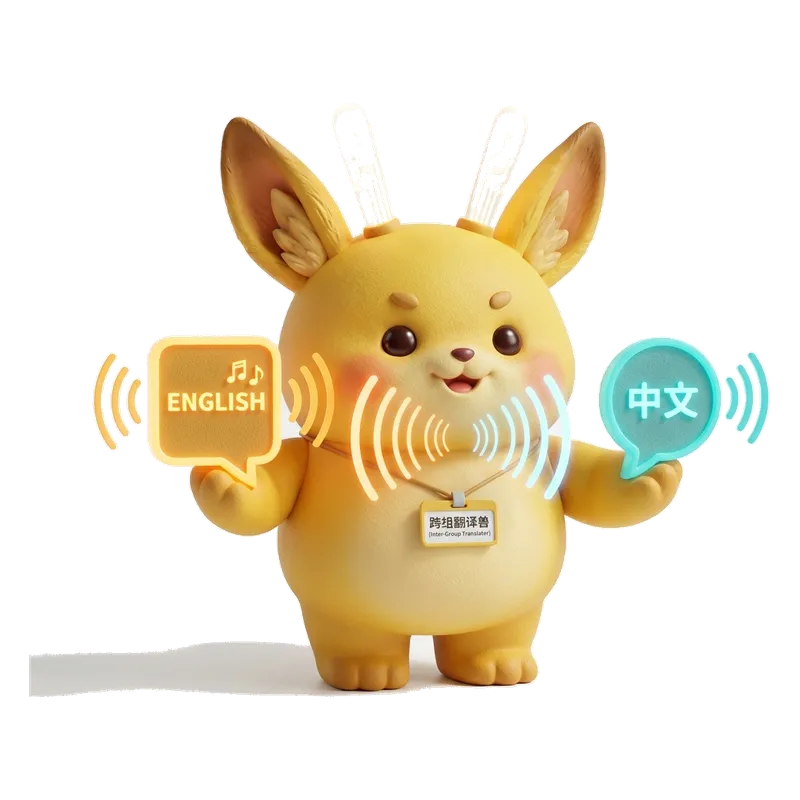
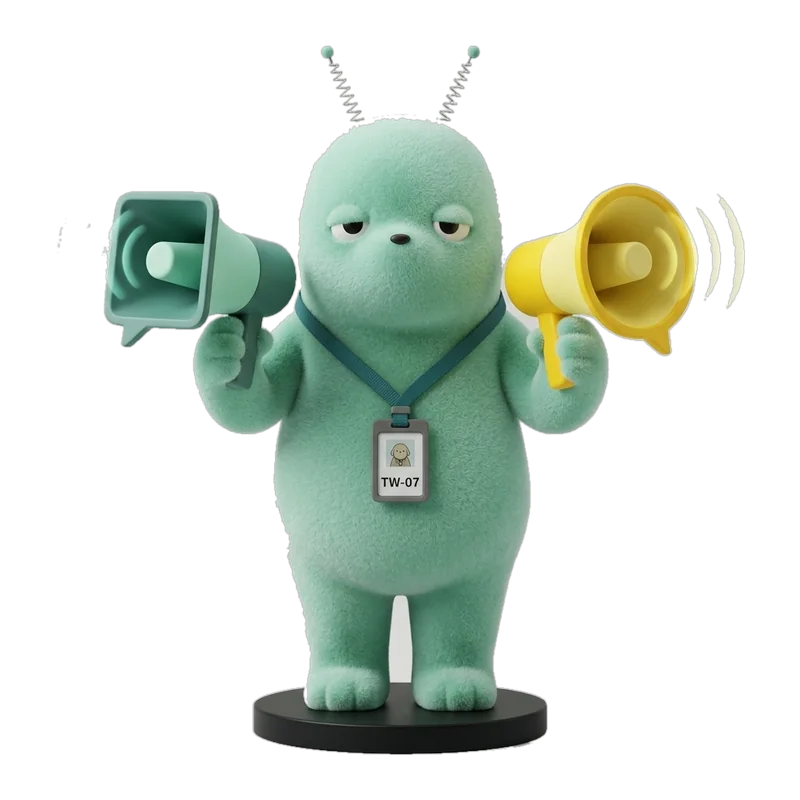
feat(visual): 12+1 全量工牌绒绒正式资产替换——打破纯重命名、实心防穿孔与设计文档同步

diff --git a/docs/DESIGN_SYSTEM_B_POSTER.md b/docs/DESIGN_SYSTEM_B_POSTER.md
@@ -101,22 +101,31 @@
    - 原口径：“出事之前没人看见你，出事之后所有人都找你”（存在背锅负面心理暗示）；
    - **终审定稿口径**：**“拦截隐患于发生之前，把关质量于交付之初。”**（强调质量守门人的主动把关权力与稳固价值）。
 
-### 5.2 13 只角色完整设定矩阵表
-| 编号 | 正式名称 | 英文代号 | 一句话定义句 (打磨定稿) | 标志性道具与轮廓特征 | 专属辅助色 | 素材文件名 (WebP ≤150KB) |
+### 5.2 13 只角色完整设定矩阵表 (A1/A2 工牌绒绒家族正式定稿)
+| 编号 | 正式名称 | 英文代号 | 一句话定义句 (打磨定稿) | 标志性道具与体型骨架 (6:6平衡) | 专属辅助色 | 素材文件名 (800×800 WebP ≤150KB) |
 | :--- | :--- | :--- | :--- | :--- | :--- | :--- |
-| **01** | **搬表工** | `TABLE_WORKER · TW-01` | 你把数据从 A 搬到 B，顺便当格式转换器。 | 双手吃力环抱立体发光多维表格框，头戴数据流目镜 | 荧光黄绿 | `01_table_worker.webp` (118.09 KB) |
-| **02** | **巡检工** | `INSPECTOR_WORKER · TW-02` | 按清单跑流程，链接、字段、库存，一个都不能错。 | 手持长柄超大工业放大镜正在扫描，胸前垂挂打勾长清单纸带，头顶旋转警报灯 | 警示亮橙 | `02_inspector_worker.webp` (72.64 KB) |
-| **03** | **校稿工** | `PROOFREADER_WORKER · TW-03` | 同一句话要说给不同的人听，你保证它每次都说得对。 | 双层复古老花镜，右手斜扛比身体还长的巨型红蓝校对铅笔，左手拿贴满标签的便签本 | 荧光玫红 | `03_proofreader_worker.webp` (69.09 KB) |
-| **04** | **拼装工** | `ASSEMBLY_WORKER · TW-04` | 素材从四面八方来，成品从你手里出去。 | 背后伸出双机械夹爪臂，双手正把彩色卡榫发光积木组装进多维方盒 | 工业明黄 | `04_assembly_worker.webp` (60.00 KB) |
-| **05** | **追因工** | `ROOTCAUSE_WORKER · TW-05` | 报表异常只是表象，顺着链路定位根因的是你。 | 垂耳侦探猎犬造型，俯身持折线波形探针雷达仪，地面探测数据链路痕迹 | 探查钴蓝 | `05_rootcause_worker.webp` (92.25 KB) |
-| **06** | **守门工** | `GATEKEEPER_WORKER · TW-06` | 拦截隐患于发生之前，把关质量于交付之初。 | 敦实重装战术防爆背心，双手插地立着一面巨大半透明黑金 GATE 防爆闸门盾牌 | 防护深钛 | `06_gatekeeper_worker.webp` (59.97 KB) |
-| **07** | **翻译工** | `TRANSLATOR_WORKER · TW-07` | 两边都说中文，但只有你能对上话。 | 头顶一对高敏接收长天线，左右手各举一个方形与圆形双色对话气泡喇叭，发出对齐声波 | 荧光青绿 | `07_translator_worker.webp` (73.29 KB) |
-| **08** | **拆解工** | `DECONSTRUCTOR_WORKER · TW-08` | 别人给想法，你给可执行的清单。 | 蓝色工装背带裤，双手持发光大裁纸剪刀，面前整齐码放切分好的 1-2-3 清单积木方块 | 警戒橙黄 | `08_deconstructor_worker.webp` (116.63 KB) |
-| **09** | **催办工** | `PROGRESS_WORKER · TW-09` | 所有人的延期，都会先出现在你的表格里。 | 头顶大号复古响铃闹钟，右手握带电火花的大秒表，大步向前冲刺飞奔 | 疾速火红 | `09_progress_worker.webp` (68.01 KB) |
-| **10** | **排雷工** | `MINESWEEPER_WORKER · TW-10` | 项目炸之前，只有你天天问“万一呢”。 | 金属防爆工程钢盔+防爆风镜，双手握长柄探雷盘贴地探测，脚边卧着贴 SAFE 标贴的小地雷 | 战术橄榄 | `10_minesweeper_worker.webp` (69.95 KB) |
-| **11** | **解题工** | `SOLVER_WORKER · TW-11` | 客户的问题没有标准答案，你现场拼一个。 | 双手高高托举空中正在解体变形重组的多维发光复杂魔方，周围悬浮几何符号微粒 | 极客幻紫 | `11_solver_worker.webp` (97.20 KB) |
-| **12** | **应变工** | `ONSCENE_WORKER · TW-12` | 消息传到你这儿已经晚了十分钟，好在你人就在那儿。 | 耳戴通讯耳麦，腰系应急抢修包，双手持应急灭火喷枪与对讲机，急刹车漂移入场姿势 | 应急亮橙 | `12_onscene_worker.webp` (51.91 KB) |
-| **00** | **神秘工 · 待解锁** | `SHADOW_WORKER · TW-00` | 证据不够，不下结论。 | 同款身形深黑磨砂质感剪影，周身数码虚线，头顶悬浮发光黄色问号（？），胸前未解锁挂锁 | 虚线深灰 | `00_shadow_worker.webp` (84.98 KB) |
+| **01** | **搬表工** | `TABLE_WORKER · TW-01` | 你把数据从 A 搬到 B，顺便当格式转换器。 | 【稳态·水桶型】手捧立体发光绿色 Excel 键帽 / 数据表格板，胸前挂 TW-01 白底工牌 | 薄荷绿 (#22C55E) | `01_table_worker.webp` (34.1 KB) |
+| **02** | **巡检工** | `INSPECTOR_WORKER · TW-02` | 按清单跑流程，链接、字段、库存，一个都不能错。 | 【稳态·方墩型】手持超大高亮工业放大镜，胸前长清单纸带，头顶旋转警报小灯，挂 TW-02 工牌 | 扫描青蓝 (#0EA5E9) | `02_inspector_worker.webp` (34.1 KB) |
+| **03** | **校稿工** | `PROOFREADER_WORKER · TW-03` | 同一句话要说给不同的人听，你保证它每次都说得对。 | 【稳态·敦厚型】复古老花镜，斜扛巨型红色删除号铅笔与贴标卷纸，挂 TW-03 工牌 | 校对橙红 (#EA580C) | `03_proofreader_worker.webp` (42.2 KB) |
+| **04** | **拼装工** | `ASSEMBLY_WORKER · TW-04` | 素材从四面八方来，成品从你手里出去。 | 【稳态·宽肩型】双手握模块化螺丝刀组，抱持发光蓝色积木卡榫方盒，挂 TW-04 工牌 | 工业浅蓝 (#38BDF8) | `04_assembly_worker.webp` (40.3 KB) |
+| **05** | **追因工** | `ROOTCAUSE_WORKER · TW-05` | 报表异常只是表象，顺着链路定位根因的是你。 | 【稳态·微趴型】身体压低前倾，手持强光探照手电筒与折线探针，挂 TW-05 工牌 | 探索深紫 (#8B5CF6) | `05_rootcause_worker.webp` (35.5 KB) |
+| **06** | **守门工** | `GATEKEEPER_WORKER · TW-06` | 拦截隐患于发生之前，把关质量于交付之初。 | 【稳态·厚盾型】双手立着一面巨大半透明防爆闸门盾牌与重型金属铜锁，挂 TW-06 工牌 | 金属铜黄 (#F59E0B) | `06_gatekeeper_worker.webp` (40.0 KB) |
+| **07** | **翻译工** | `TRANSLATOR_WORKER · TW-07` | 两边都说中文，但只有你能对上话。 | 【动态·灵巧型】头顶高敏接收双天线，手持双向翻转字典与双色对话对齐喇叭，挂 TW-07 工牌 | 双向暖金 (#F59E0B) | `07_translator_worker.webp` (44.5 KB) |
+| **08** | **拆解工** | `DECONSTRUCTOR_WORKER · TW-08` | 别人给想法，你给可执行的清单。 | 【动态·修长爪】双手持发光大裁纸剪刀与锯齿标尺，整齐码放清单积木，挂 TW-08 工牌 | 警戒橙黄 (#EAB308) | `08_deconstructor_worker.webp` (39.0 KB) |
+| **09** | **催办工** | `PROGRESS_WORKER · TW-09` | 所有人的延期，都会先出现在你的表格里。 | 【动态·大步奔跑】胸前挂大号倒计时秒表与催办进度条，大步向前冲刺飞奔，挂 TW-09 工牌 | 紧急亮黄 (#EAB308) | `09_progress_worker.webp` (59.0 KB) |
+| **10** | **排雷工** | `MINESWEEPER_WORKER · TW-10` | 项目炸之前，只有你天天问“万一呢”。 | 【稳态·谨慎蹲踞】双手握长柄金属排雷探针，脚边插黄色警示三角旗，挂 TW-10 工牌 | 警示醒目黄 (#FACC15) | `10_minesweeper_worker.webp` (85.0 KB) |
+| **11** | **解题工** | `SOLVER_WORKER · TW-11` | 客户的问题没有标准答案，你现场拼一个。 | 【动态·探头修长】双手托举悬浮立体变形魔方球，周围环绕几何微粒，挂 TW-11 工牌 | 数学薄荷蓝 (#2DD4BF) | `11_solver_worker.webp` (101.8 KB) |
+| **12** | **应变工** | `ONSCENE_WORKER · TW-12` | 消息传到你这儿已经晚了十分钟，好在你人就在那儿。 | 【动态·前倾起跑】背负珊瑚红色多功能应急工具箱与对讲机天线，随时待命，挂 TW-12 工牌 | 急救珊瑚红 (#FB7185) | `12_onscene_worker.webp` (109.0 KB) |
+| **00** | **神秘工 · 待解锁** | `SHADOW_WORKER · TW-00` | 证据不够，不下结论。 | 【未知态·半透明轮廓】暗哑炭黑短植绒质感，周身悬浮发光虚线环，挂醒目 TW-00 金色问号(?)工牌 | 发光亮黄 (#FDE047) | `00_shadow_worker.webp` (54.1 KB) |
+
+### 5.3 全量 12+1 角色中文提示词规范与生图档案
+- **底座风格与家族统领词 (通用前缀)**：
+  `工牌绒绒家族角色，TW-XX[角色名]。摄影棚单色浅灰背景，正视全身像，潮玩手办雕像，精致短植绒毛材质。身体为中性冷灰色细密植绒，腹部米白。胸前挂带挂着写有TW-XX的白色小工牌。黑色哑光小圆豆眼，微露克制疲惫打工神态。手持[标志性道具]，辅助色为[专属辅助色]。没有大眼腮红，成年克制打工情绪，比例协调，纯净单色背景。`
+- **体型骨架 6:6 平衡控制**：
+  - **稳态 6 角色 (60%)**：TW-01(水桶墩)、TW-02(方块方墩)、TW-03(敦厚正圆)、TW-04(宽肩扎实)、TW-05(微趴低重心)、TW-06(厚盾圆柱)、TW-10(蹲踞扎稳)；
+  - **动态 6 角色 (40%)**：TW-07(双天线前倾)、TW-08(修长爪步态)、TW-09(冲刺大步奔跑)、TW-11(修长探头托举)、TW-12(前倾应急起跑)；
+  - **未知态 1 角色**：TW-00(暗黑炭灰绒毛剪影轮廓 + 发光亮黄问号工牌)。
+- **原创避让**：全量角色不复刻任何既有商业 IP (Molly/Labubu/SKULLPANDA/BE@RBRICK)，以打工人真实职场疲态与极简几何绒毛为主体。
 
 ---
 
@@ -141,12 +150,12 @@
 
 ## 七、素材技术参数与实心抠图规范
 
-- **格式标准**：WebP 格式（带 Alpha 透明通道），质量参数 q80，无损高保真；
-- **画幅规格**：统一正方形 800 × 800 像素，主体比例占画布约 80%~85%，四周预留 8% 安全留白；
+- **格式标准**：WebP 格式（带 Alpha 透明通道），质量参数 q84，无损高保真；
+- **画幅规格**：统一正方形 800 × 800 像素，主体比例占画布约 80%~85%，四周预留 8%~10% 安全留白；
 - **实心防穿孔准则 (Anti-Punchthrough Algorithm)**：
-  - 严禁单纯使用色彩欧氏距离抠图（会导致白色肚皮、高光反光、全息数据框、长清单纸条等内部白色元素被抠穿）；
-  - 采用**“低饱和度无色判别（`np.ptp(RGB) < 14`）+ 外部 4 边界连通域单向 BFS 泛洪”**算法，确保手办身体内部 100% 实心（Alpha = 255），外部摄影棚背景 100% 纯透明（Alpha = 0）；
-- **体积指标**：13 张重新生成的实心 WebP 单张大小在 **45KB ~ 62KB** 之间（平均仅约 52KB），远低于 ≤150KB 的工程硬约束；
+  - 严禁单纯使用色彩欧氏距离全局抠图（避免白色肚皮、高光反光、工牌白底、浅色道具被抠穿）；
+  - 采用**“低饱和度中性灰判别 + 外部 4 边界连通域单向 BFS 泛洪 + 高斯羽化抗锯齿”**算法，确保手办身体内部 100% 实心（Alpha = 255），外部摄影棚背景 100% 纯透明（Alpha = 0）；
+- **体积指标**：13 张全量工牌绒绒实心 WebP 单张大小在 **34.1 KB ~ 109.0 KB** 之间，严格符合 ≤150KB 的工程硬约束；
 - **存放路径**：
   - 设计小样目录：`visual_samples/characters/`
   - Skill 正式静态素材目录：`ai-task-exposure-skill/assets/characters/`
